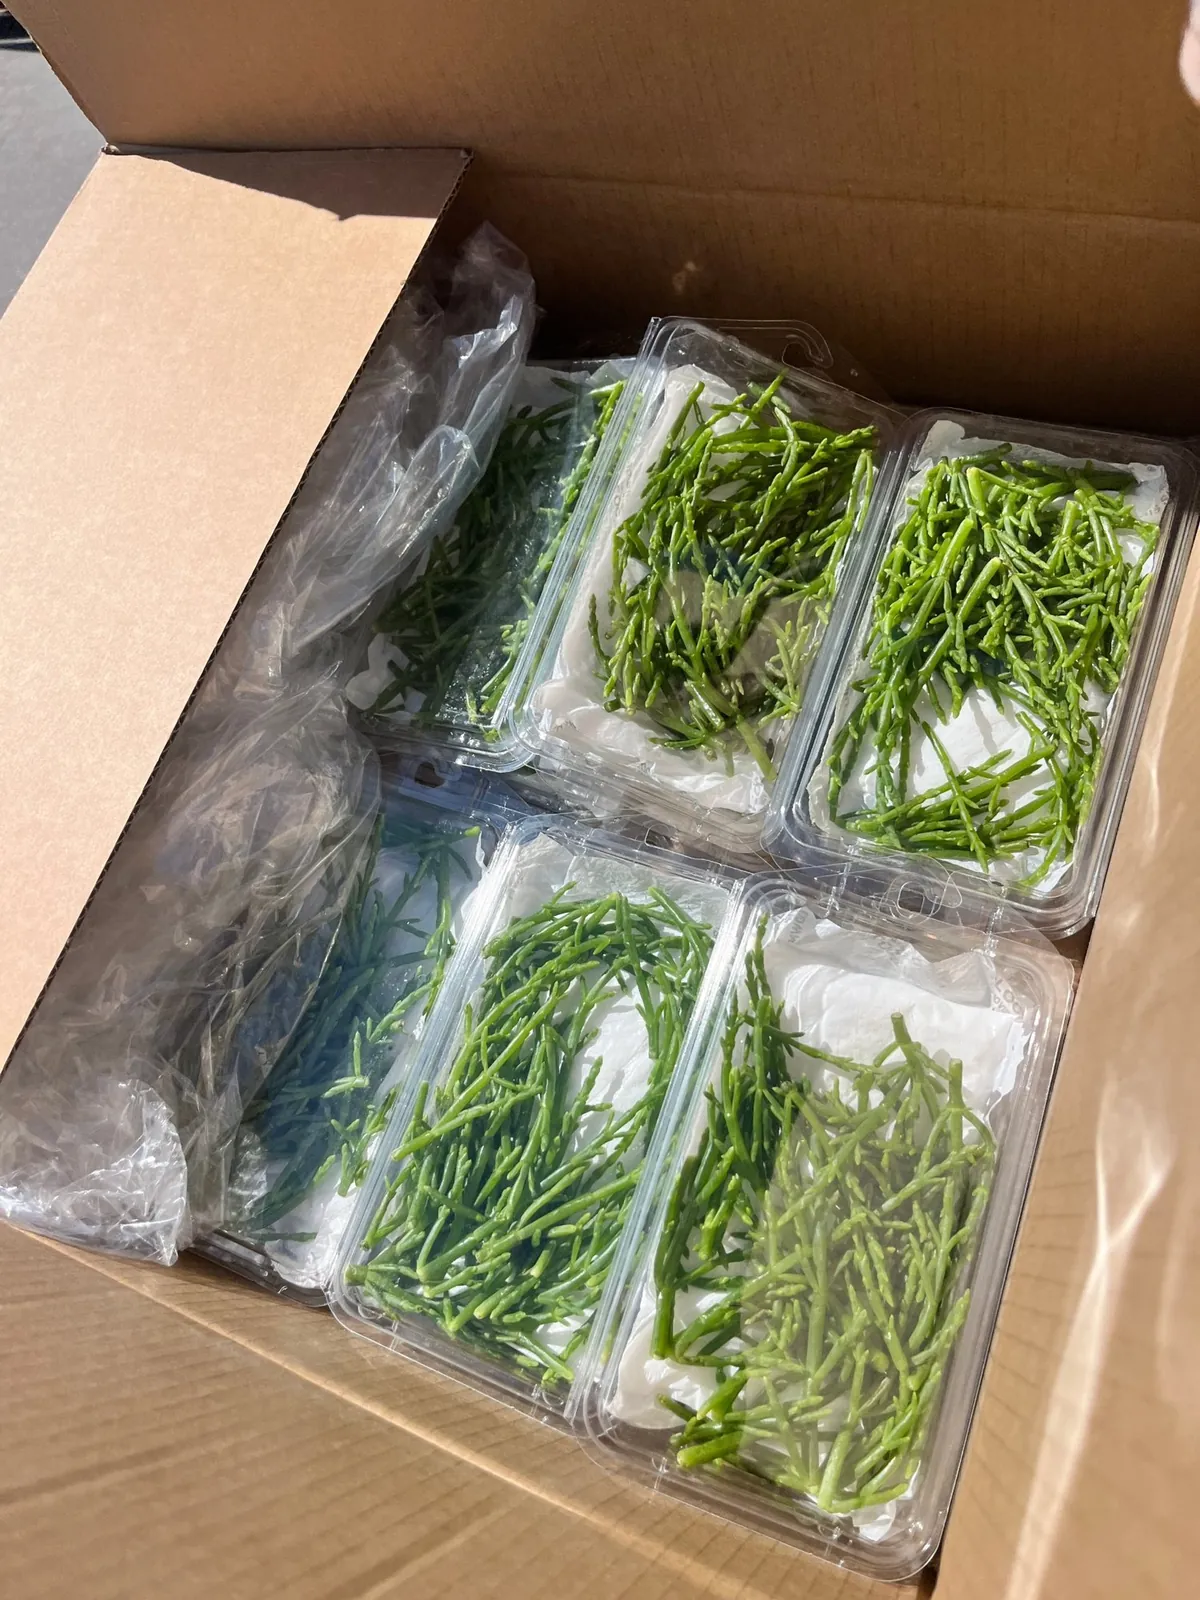
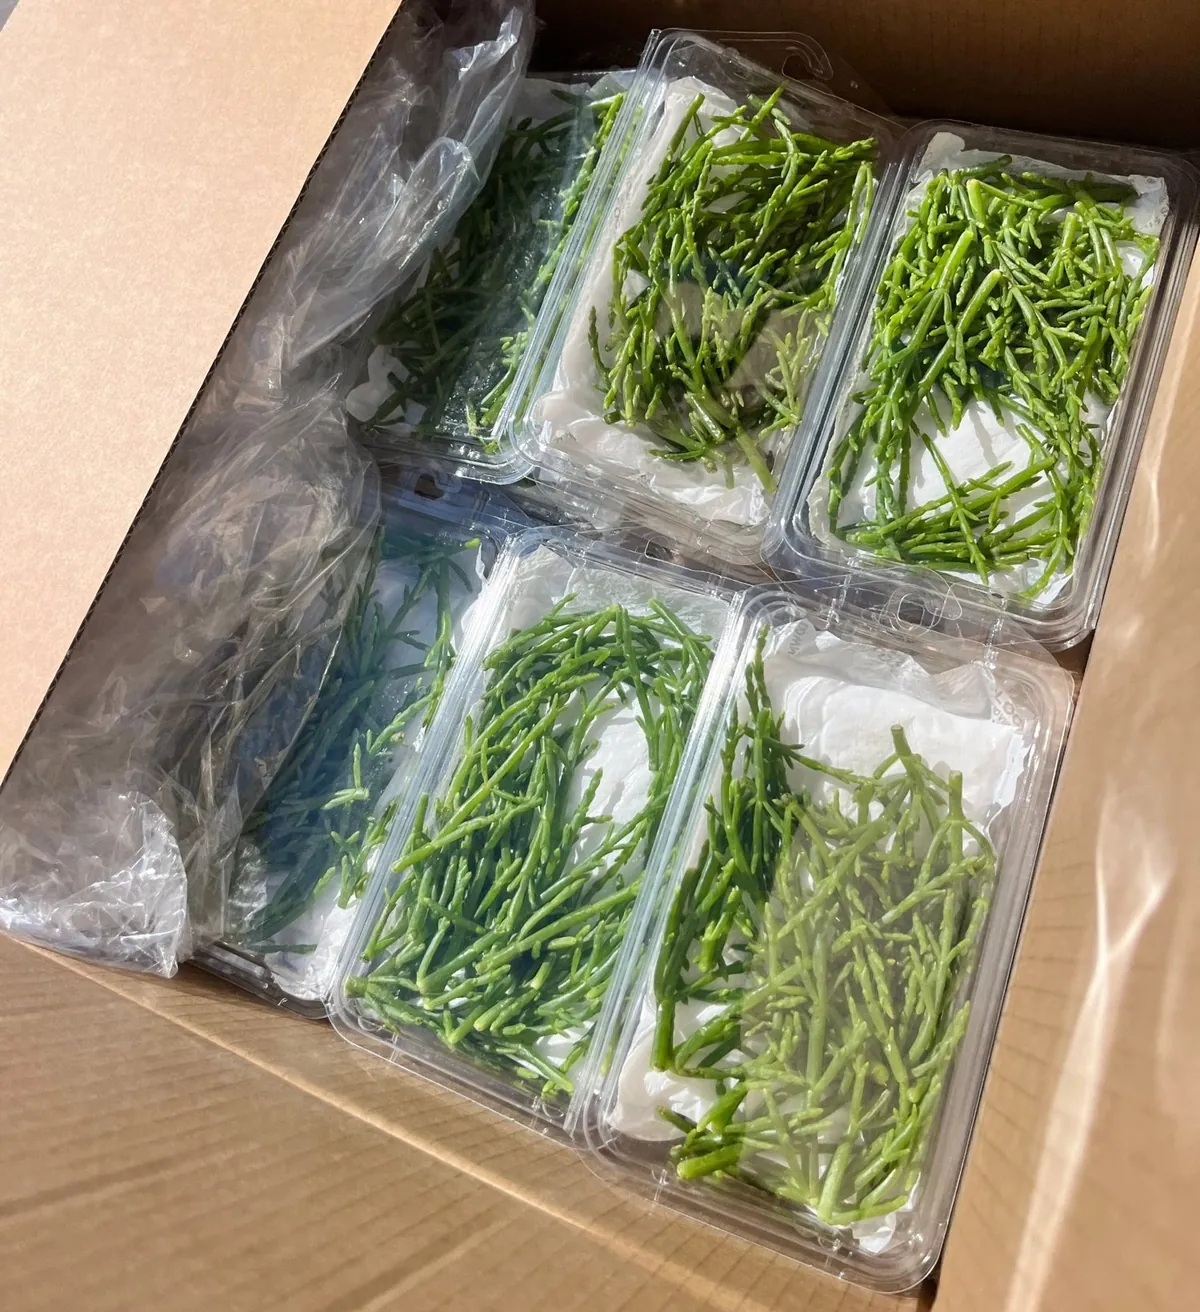
Salico: crop symposium photos, slightly larger
Claude-Session: https://claude.ai/code/session_01ELhdABDRcghfKyptDK2XUK

diff --git a/js/image-sizes.js b/js/image-sizes.js
@@ -1330,23 +1330,23 @@ const IMAGE_SIZES = {
 ],
 "assets/img/work/salico/salico-sym-1.jpg": [
 2000,
-1500
+1125
 ],
 "assets/img/work/salico/salico-sym-2.jpg": [
 2000,
-1500
+1125
 ],
 "assets/img/work/salico/salico-sym-3.jpg": [
 1500,
-2000
+1640
 ],
 "assets/img/work/salico/salico-sym-4.jpg": [
 1500,
-2000
+1640
 ],
 "assets/img/work/salico/salico-sym-5.jpg": [
 1500,
-2000
+1640
 ],
 "assets/img/work/salico/salico-test-1.jpg": [
 1040,
@@ -1898,11 +1898,11 @@ const IMAGE_PREVIEWS = {
[16 lines of base64/hex data omitted]

diff --git a/js/projects.js b/js/projects.js
@@ -517,7 +517,7 @@ const PROJECTS = [
         label: "Capstone Symposium",
         blocks: [
           { type: "text", text: ["Watch the [symposium video ↗](https://www.youtube.com/watch?v=6P6a0z8bSIY&t=133s)."] },
-          { type: "media-rows", maxWidth: 610, center: true, rows: [2, 3], items: ["assets/img/work/salico/salico-sym-1.jpg", "assets/img/work/salico/salico-sym-2.jpg", "assets/img/work/salico/salico-sym-3.jpg", "assets/img/work/salico/salico-sym-4.jpg", "assets/img/work/salico/salico-sym-5.jpg"] }
+          { type: "media-rows", maxWidth: 800, center: true, rows: [2, 3], items: ["assets/img/work/salico/salico-sym-1.jpg", "assets/img/work/salico/salico-sym-2.jpg", "assets/img/work/salico/salico-sym-3.jpg", "assets/img/work/salico/salico-sym-4.jpg", "assets/img/work/salico/salico-sym-5.jpg"] }
         ]
       },
       {
